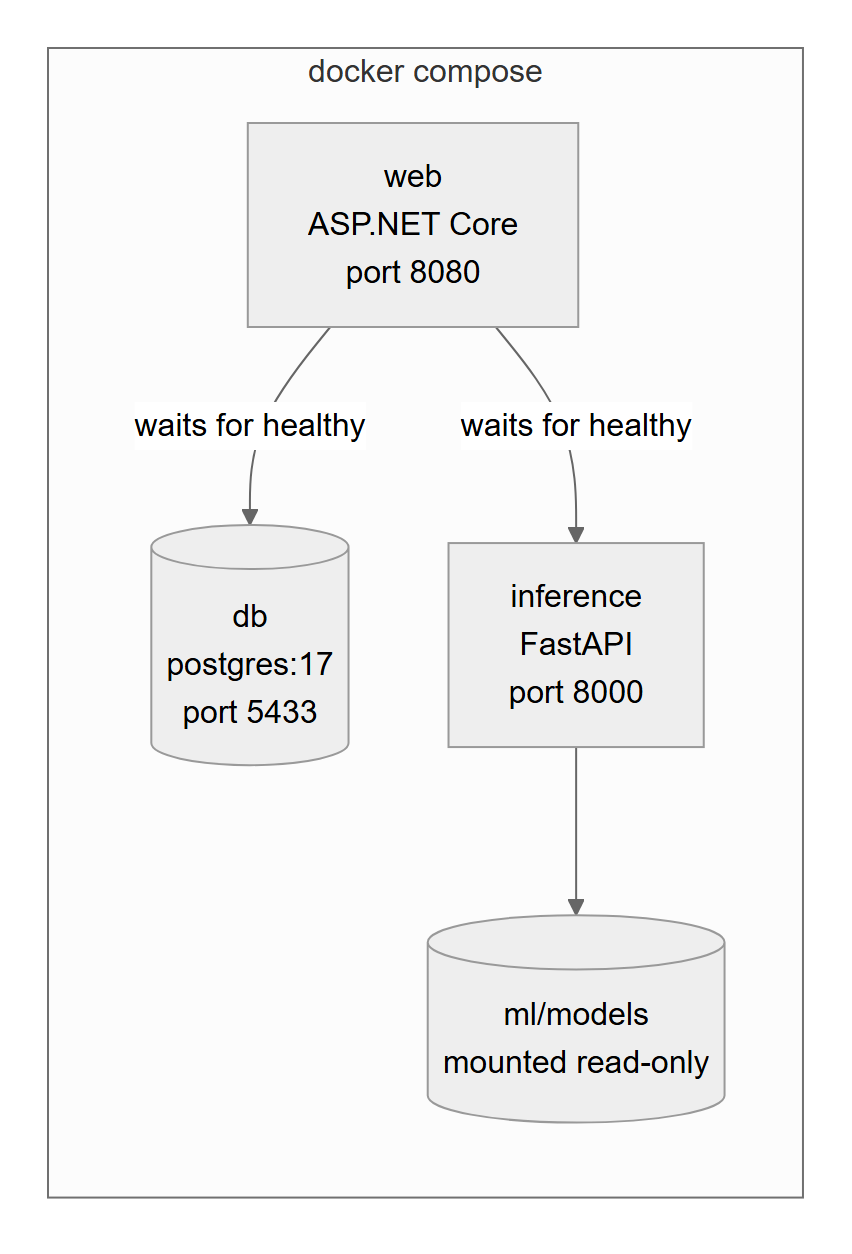
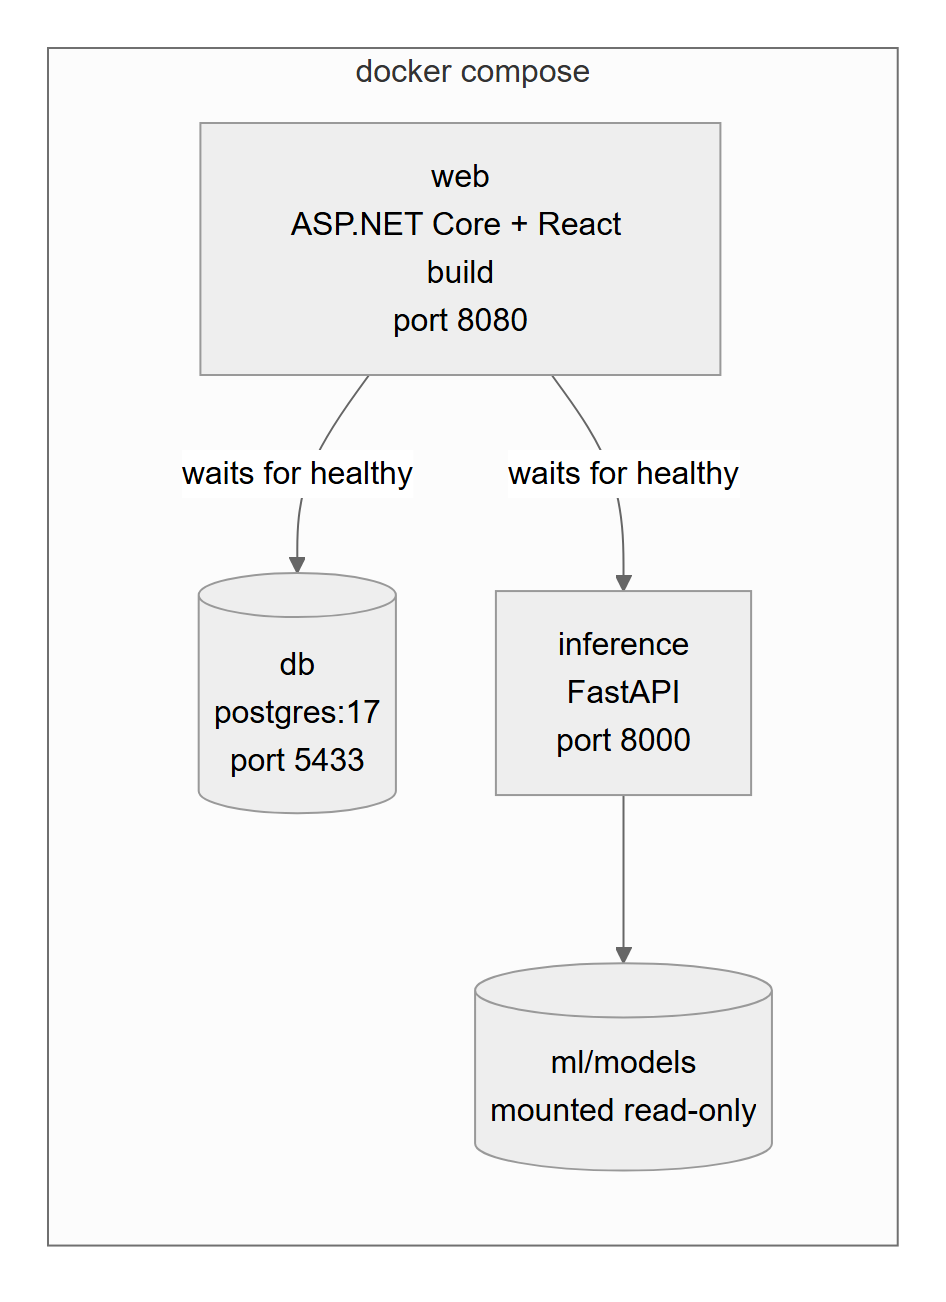
Show the React app in the container, component and roadmap diagrams

diff --git a/architecture/02-containers.md b/architecture/02-containers.md
@@ -2,14 +2,15 @@
 
 ## Containers
 
-Three running parts. The ASP.NET Core application owns all business rules and data; the Python service only turns inputs into a probability and its top factors.
+Three running parts. The ASP.NET Core application owns all business rules and data and also serves the React app; the Python service only turns inputs into a probability and its top factors.
 
 ```mermaid
 flowchart TB
-    browser["Browser<br/>Razor Pages HTML, no SPA"]
+    browser["Browser"]
 
     subgraph web["ASP.NET Core 9 (C#)"]
-        pages["Razor Pages UI<br/>/applications, /clients,<br/>/dashboard, /model"]
+        spa["React app under /app<br/>static files from the Vite build,<br/>English and Serbian"]
+        pages["Razor Pages UI<br/>until the React pages replace it"]
         api["REST API /api/*<br/>JSON, OpenAPI"]
         pages -- "HTTP + forwarded<br/>sign-in cookie<br/>(ApplicationsApi)" --> api
     end
@@ -22,6 +23,8 @@ flowchart TB
         fastapi -- "loads at start" --> artifacts
     end
 
+    browser -- "loads page and scripts" --> spa
+    browser -- "fetch /api/*, same origin,<br/>sign-in cookie" --> api
     browser -- "HTTP(S), cookie" --> pages
     browser -. "optional: Swagger UI<br/>in Development" .-> api
     api -- "EF Core" --> db
@@ -29,16 +32,16 @@ flowchart TB
     api -- "HTTP JSON<br/>(IMlClient, 5 s timeout)" --> fastapi
 ```
 
-Why the pages call the API over HTTP instead of calling services directly: there is one way in to the business rules, so the API and the UI cannot drift apart, and every rule is tested once.
+Why both UIs go through the API instead of calling services directly: there is one way in to the business rules, so the API and the UI cannot drift apart, and every rule is tested once. The React app runs in the browser and calls the API on the same origin, so the `HttpOnly`, `SameSite=Strict` cookie works without CORS and the SPA never sees a token.
 
 ## Deployment
 
-`docker compose up --build` in the repository root starts all three on one machine. Health checks make the web app wait until the database accepts connections and the inference service has a model loaded. In Development the web app migrates the database and seeds the demo users on start, so a fresh clone runs without manual steps. Running on a server is out of scope (supervisor, 2026-11-06).
+`docker compose up --build` in the repository root starts all three on one machine. The web image builds the React app in a Node stage and copies it into `wwwroot/app`. Health checks make the web app wait until the database accepts connections and the inference service has a model loaded. In Development the web app migrates the database and seeds the demo users on start, so a fresh clone runs without manual steps. Running on a server is out of scope (supervisor, 2026-11-06).
 
 ```mermaid
 flowchart LR
     subgraph compose["docker compose"]
-        web2["web<br/>ASP.NET Core<br/>port 8080"]
+        web2["web<br/>ASP.NET Core + React build<br/>port 8080"]
         inf2["inference<br/>FastAPI<br/>port 8000"]
         db2[("db<br/>postgres:17<br/>port 5433")]
         models2[("ml/models<br/>mounted read-only")]

diff --git a/architecture/03-backend-components.md b/architecture/03-backend-components.md
@@ -9,13 +9,14 @@ flowchart TB
         appsApi["ApplicationsApi<br/>typed HttpClient to /api"]
         fwd["CookieForwardingHandler<br/>copies the sign-in cookie"]
         helpers["Labels, FormErrors,<br/>ApplicationInputs, HistoryFilter"]
+        spaHost["SpaHosting<br/>serves the React build<br/>under /app"]
         pagesC --> appsApi --> fwd
         pagesC --> helpers
     end
 
     subgraph controllers["Controllers (REST API)"]
-        appsCtl["ApplicationsController<br/>/api/applications"]
-        clientsCtl["ClientsController<br/>/api/clients"]
+        appsCtl["Applications, Drafts,<br/>Work, Search, Clients<br/>/api/applications, ..."]
+        adminCtl["Auth, Users,<br/>Branches, Audit<br/>/api/auth, /api/users, ..."]
         modelsCtl["ModelsController<br/>/api/models"]
         statsCtl["StatsController<br/>/api/stats"]
     end
@@ -31,7 +32,7 @@ flowchart TB
     end
 
     subgraph domain["Domain"]
-        entities["CreditApplication, Client, User,<br/>CreditDecision, ScoreFactor,<br/>OfficerDecision, ScoringModel,<br/>ModelEvent, ShadowScore"]
+        entities["CreditApplication, Client, Branch, User,<br/>CreditDecision, ScoreFactor, OfficerDecision,<br/>SignOff, ApplicationNote, ApplicationDraft,<br/>LoanOutcome, ScoringModel, ModelEvent,<br/>ShadowScore, AuditEntry"]
         registry["ModelRegistry<br/>promote, retire"]
     end
 
@@ -46,12 +47,14 @@ flowchart TB
     end
 
     subgraph data["Data"]
-        dbctx["CreditScoringDbContext<br/>EF Core + migrations"]
+        dbctx["CreditScoringDbContext<br/>EF Core + migrations,<br/>branch query filter"]
+        auditI["AuditInterceptor<br/>records every write"]
+        dbctx --> auditI
     end
 
     subgraph auth["Auth"]
-        policies["Policies<br/>CanDecide, CanSeeStats,<br/>CanManageModels"]
-        cookie["CookieSetup, Credentials,<br/>UserSeeder"]
+        policies["Permissions + Policies<br/>one policy per permission"]
+        cookie["CookieSetup, Credentials,<br/>SignInService (lockout), Seeder"]
     end
 
     fwd -- HTTP --> controllers

diff --git a/architecture/12-status-and-roadmap.md b/architecture/12-status-and-roadmap.md
@@ -1,6 +1,6 @@
 # 12. Status and roadmap
 
-Where the system is on 2026-11-09 and what is planned next. Solid boxes are built and tested; dashed ones are planned.
+Where the system is on 2026-11-10 and what is planned next. Solid boxes are built and tested; dashed ones are planned.
 
 ```mermaid
 flowchart LR
@@ -8,15 +8,14 @@ flowchart LR
         direction TB
         l1["Decision report and CSV export"]
         l2["Model monitoring over time"]
-        l3["Four-eyes sign-off"]
-        l4["User management page"]
-        l5["Browser tests"]
+        l3["Security headers, HTTPS"]
     end
 
     subgraph next["Planned, in order"]
         direction TB
-        n3["Loan outcome tracking:<br/>repaid or defaulted"]
-        n4["Security basics:<br/>lockout, headers, HTTPS"]
+        n1["React pages for drafts, notes,<br/>withdrawal, assignment, outcomes"]
+        n2["React admin pages:<br/>users, branches, audit log"]
+        n3["Browser tests on React<br/>(QA session), then remove<br/>the Razor pages"]
     end
 
     subgraph done["Built"]
@@ -24,7 +23,7 @@ flowchart LR
         d1["Application form, validation,<br/>scoring, recommendation"]
         d2["Officer decision with<br/>reason rules"]
         d3["Searchable history"]
-        d4["Sign-in, three roles"]
+        d4["Sign-in with lockout,<br/>four roles, permissions"]
         d5["Clients and their<br/>application timeline"]
         d6["Model registry,<br/>champion and challenger"]
         d7["Dashboard"]
@@ -32,10 +31,12 @@ flowchart LR
         d9["ML: Lending Club model,<br/>LC-01 to LC-11"]
         d10["One-command start<br/>(Docker Compose) + README"]
         d11["CI: tests on every push"]
+        d12["React app, English and Serbian:<br/>applications, clients, home queue,<br/>models, dashboard"]
+        d13["API: branches, audit log, drafts,<br/>sign-off, notes, loan outcomes"]
     end
 
     classDef plan stroke-dasharray: 5 5
-    class n3,n4,l1,l2,l3,l4,l5 plan
+    class n1,n2,n3,l1,l2,l3 plan
 ```
 
 ## What changes when outcome tracking lands
